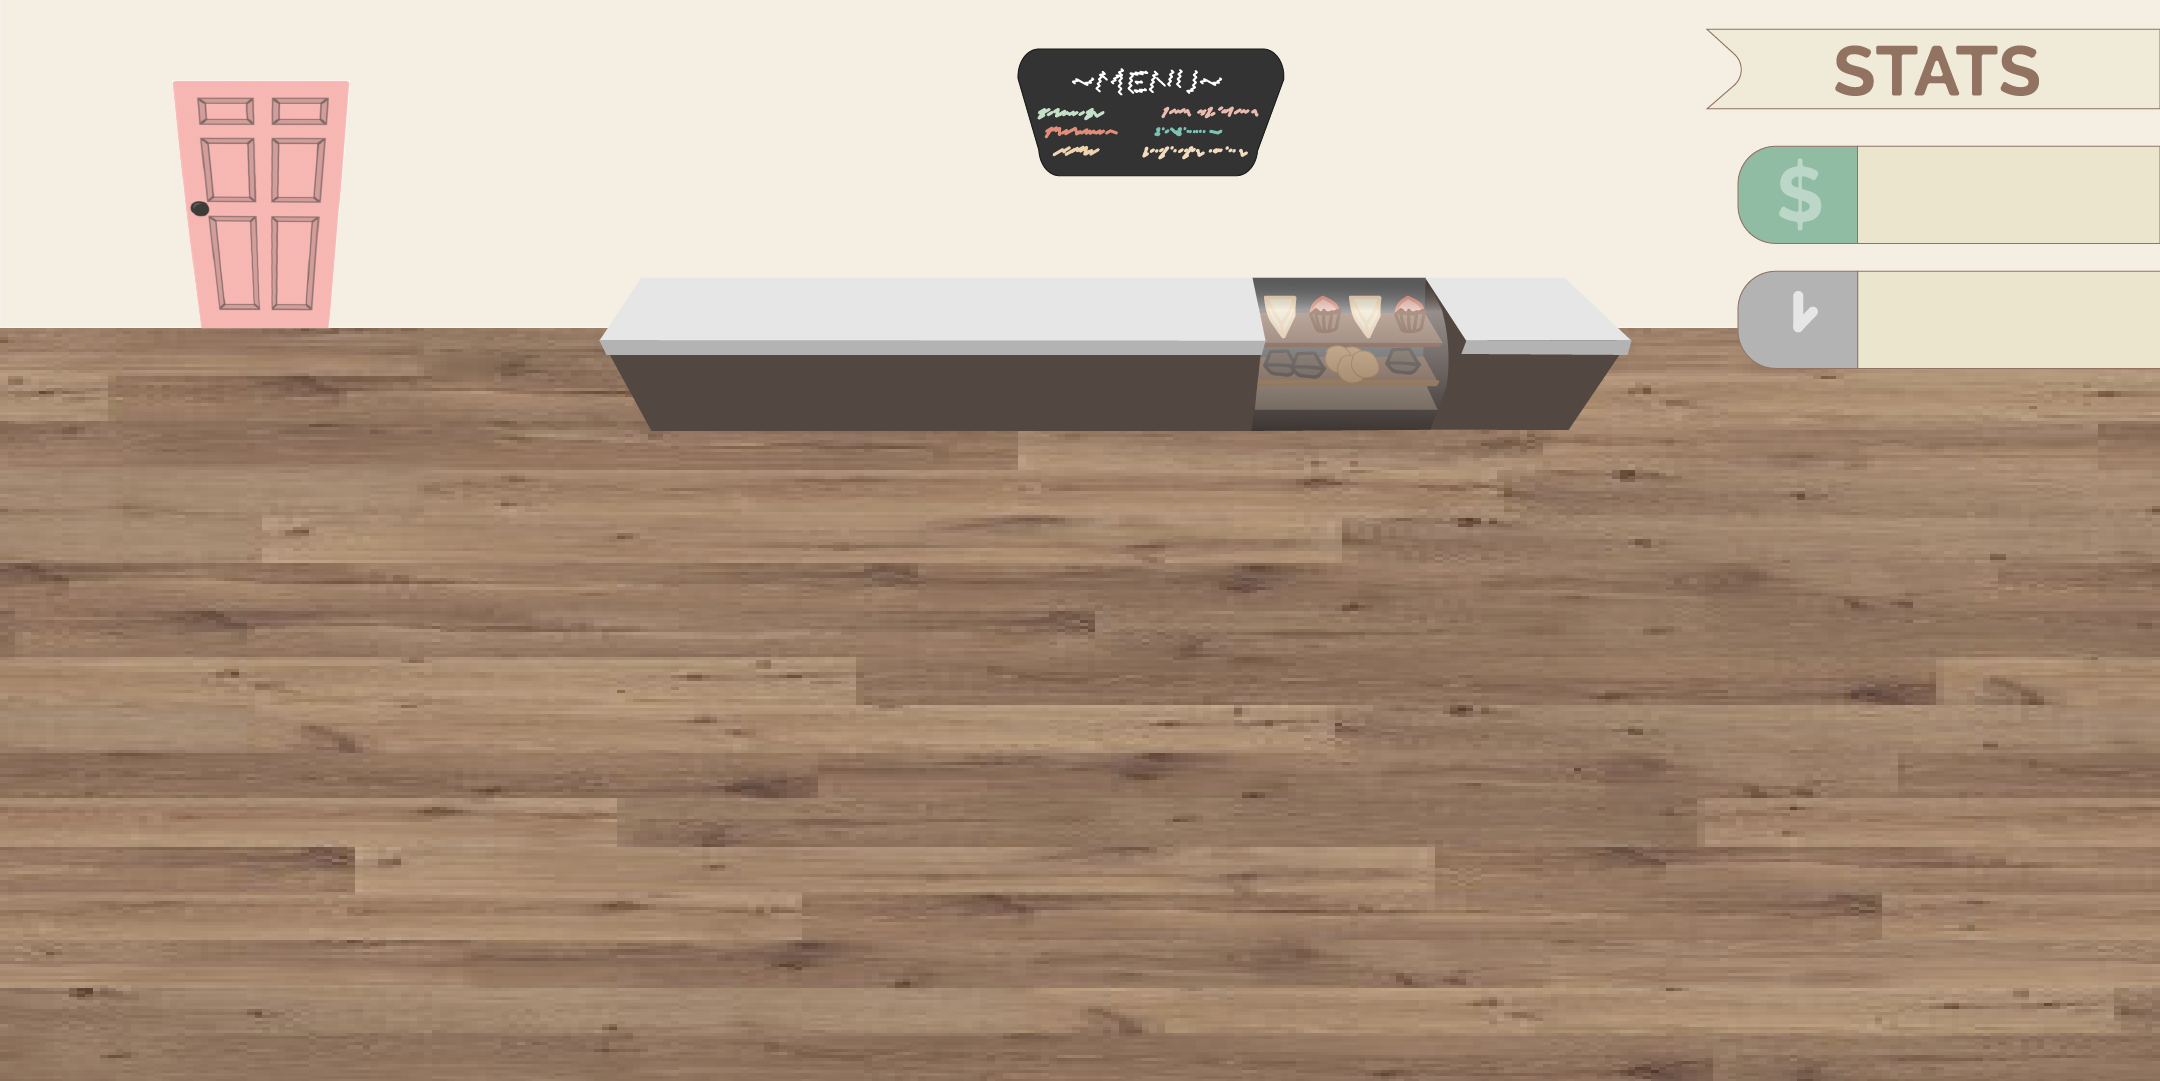
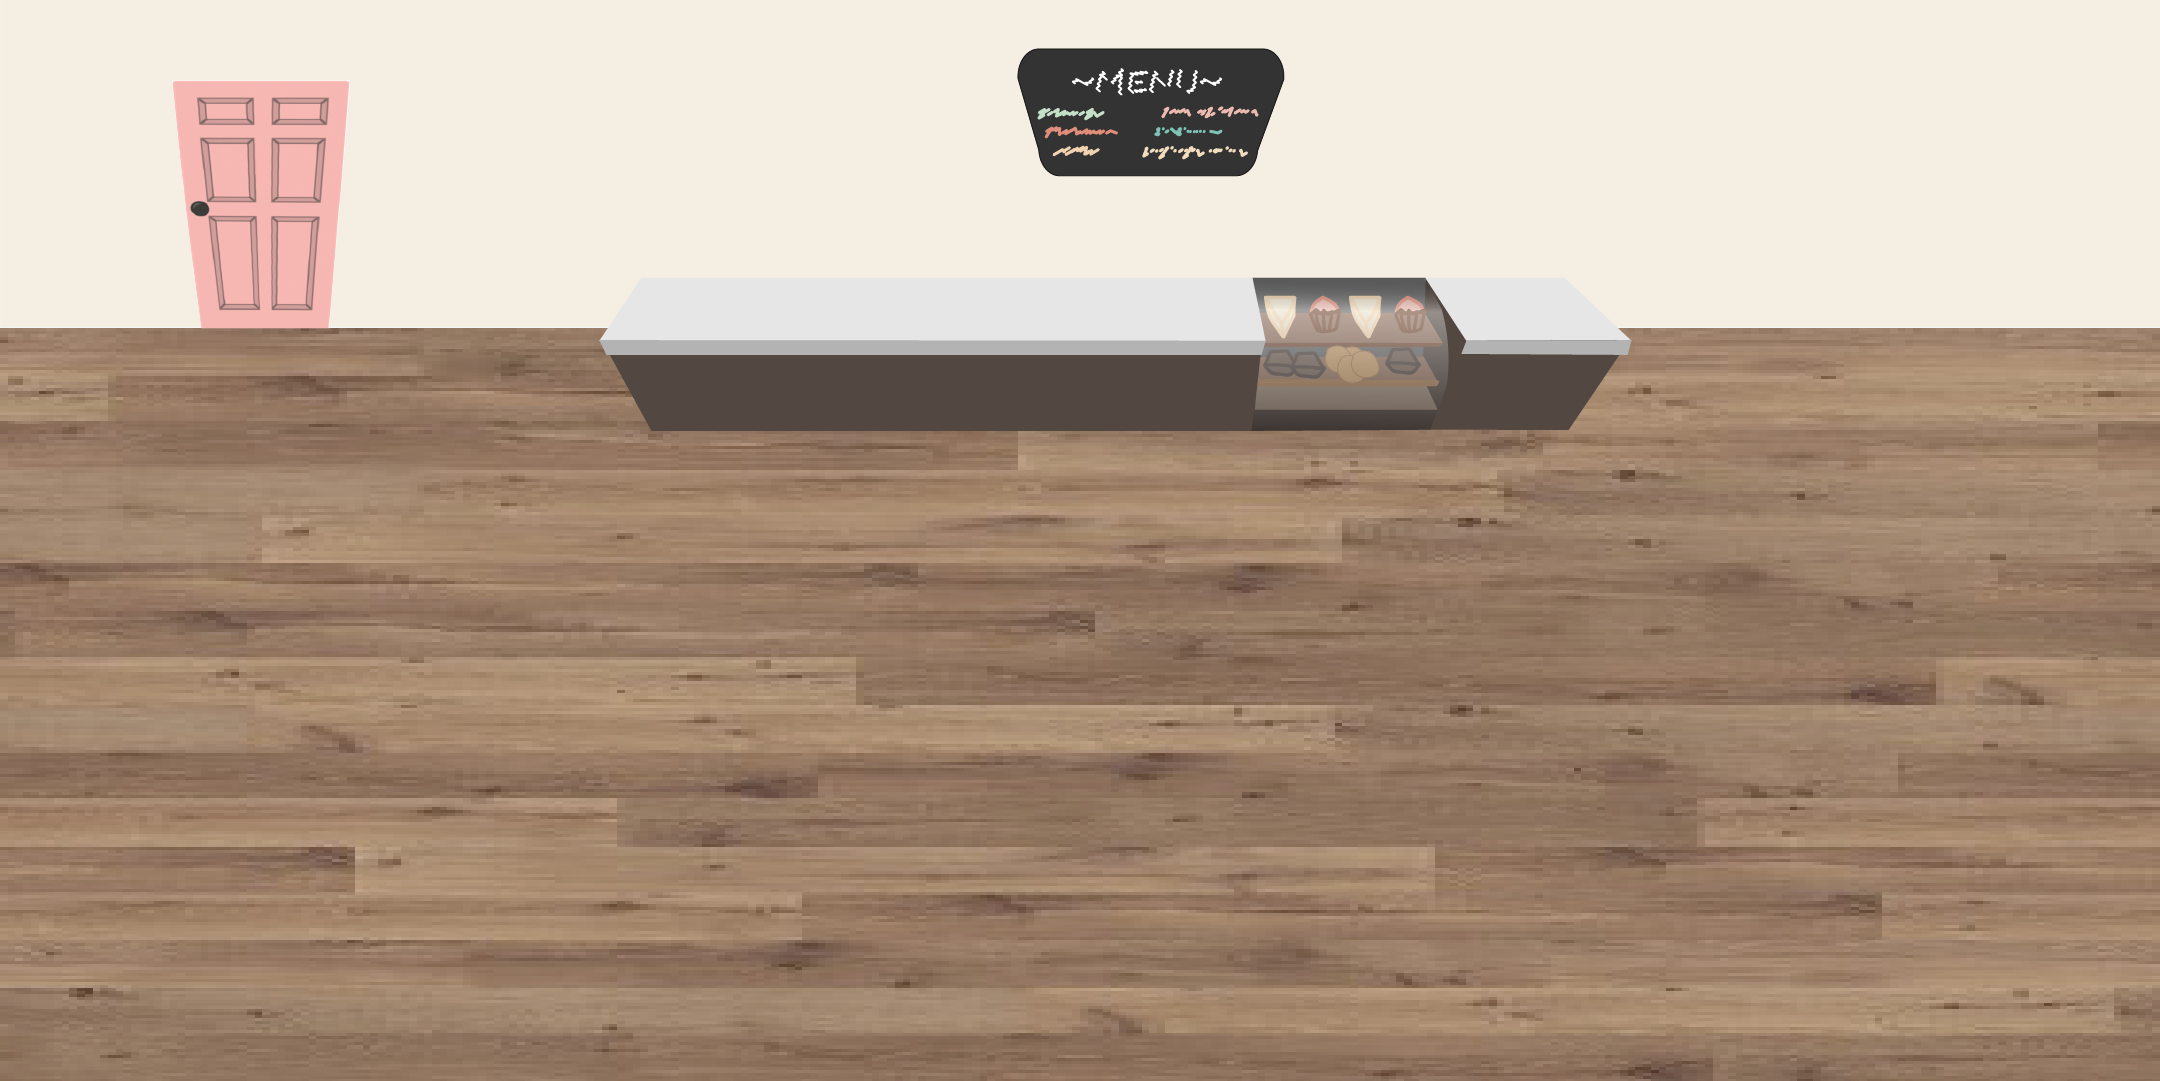
Server Update

Changed region(s): [[0.8065, 0.1221, 1.0, 0.3663], [0.8375, 0.0305, 0.9616, 0.0916]]

diff --git a/core/src/bobabox/main/Sprites/SprServer.java b/core/src/bobabox/main/Sprites/SprServer.java
@@ -12,18 +12,20 @@ import com.badlogic.gdx.graphics.g2d.SpriteBatch;
 
 import java.util.List;
 
+import bobabox.main.Objects.ObjBar;
+
 //https://github.com/TimCatana/gamegravity/blob/master/core/src/com/catani/gamegravity/SprChar.java
 
 public class SprServer extends Sprite {
 
     private float fX, fY, fW, fH;//Server X, Y, W, H
-    private int nDir = 4;
-    private Texture txtSheet, txtServer;
+    private int nDir = 4, nTimer = 0;
+    private Texture txtSheet, txtServer, txtDrink;
     private TextureRegion[] traniFrames;
-    private TextureRegion trTemp;
+    private TextureRegion[][] trTmpFrames;
     private Animation[] araniServer;
     private float fElapsedTime, fMove = 1.5f;
-
+    private boolean bHasDrink = false, HasOrder;
     // nDir: 0 = North, 1 = East, 2 = South, 3 = West, 4 = stop
 
     public SprServer(float _fX, float _fY) {
@@ -35,24 +37,24 @@ public class SprServer extends Sprite {
         fH = 100;
         setFlip(false, false);
 
+        txtDrink = new Texture("data/BubbleTea_img.png");
         araniServer = new Animation[4];
 
-        TextureRegion[][] trTmpFrames = TextureRegion.split(txtSheet, txtSheet.getWidth()/5, txtSheet.getHeight()/4);
+        trTmpFrames = TextureRegion.split(txtSheet, txtSheet.getWidth() / 5, txtSheet.getHeight() / 4);
 
-        for(int i = 0; i < 4; i++){
+        for (int i = 0; i < 4; i++) {
             traniFrames = new TextureRegion[5];
-            for(int j =0; j < 5; j++){
+            for (int j = 0; j < 5; j++) {
                 traniFrames[j] = trTmpFrames[i][j];
             }
-            araniServer[i] = new Animation(1f/6f, traniFrames);
+            araniServer[i] = new Animation(1f / 6f, traniFrames);
         }
-        System.out.println("nDir = " + nDir);
     }
 
 
     private void directions(SpriteBatch batch) {
-        if(nDir < 4){
-            batch.draw((TextureRegion)araniServer[nDir].getKeyFrame(fElapsedTime,true), fX, fY, fW-10, fH);
+        if (nDir < 4) {
+            batch.draw((TextureRegion) araniServer[nDir].getKeyFrame(fElapsedTime, true), fX, fY, fW - 10, fH);
         }
         if (nDir == 0) {
 //            System.out.println("NORTH");
@@ -85,6 +87,7 @@ public class SprServer extends Sprite {
 
     // Makes server move to table coordinates
     public void update(float fXG, float fYG, SpriteBatch batch) {
+//        System.out.println("ndir" + nDir);
         fElapsedTime += Gdx.graphics.getDeltaTime();//make sure to stop this timer when the game pauses
         directions(batch);
         //North
@@ -102,20 +105,31 @@ public class SprServer extends Sprite {
         } else {
             nDir = 4;
         }
-
-
-        //Makes server move right according to coordinate location
-//        System.out.println(fYG + " TABLE X");
-//        System.out.println(fX + " SERVER X");
-     //   System.out.println(fY + " SERVER Y");
-
     }
 
+    public void carryDrink(SpriteBatch batch, boolean hasOrder, ObjBar objBar) {
+        HasOrder = hasOrder;
+//        System.out.println("NDIRytrset7yfghcf" + " "+ nDir);
+//        System.out.println("FX " + fX + " FY "+ fY);
+        System.out.println("nTimer " + nTimer);
+        if (fX == objBar.rBar().x + 1 && fY == objBar.rBar().y - 20) {
+            if (HasOrder && nDir == 4) {
+                nTimer++;
+            }
+        }
+        if(bHasDrink){
+            HasOrder = false;
+            nTimer = 0;
+            batch.draw(txtDrink, fX, fY +10,  50, 50);
+        }
+        if (nTimer >= 60 && HasOrder) {
+            batch.draw(txtDrink, objBar.rBar().x + fW, objBar.rBar().y + 50 , 50, 50);
+            if (objBar.isTapped()) {
+                bHasDrink = true;
+            }
+        }
+    }
 }
-
-
-
-
 
 
 

diff --git a/core/src/bobabox/main/Screens/ScrGame.java b/core/src/bobabox/main/Screens/ScrGame.java
@@ -27,7 +27,7 @@ public class ScrGame implements Screen, InputProcessor {
     GamMenu gamMenu;
     //Values
     int nW, nH;
-    private boolean isTableClicked = false, isDown = false;
+    private boolean isTableClicked = false;
     private boolean isSitting = false;
     private Vector3 vTouch;
     private int nGameTimer = 60, nFPS;
@@ -37,7 +37,7 @@ public class ScrGame implements Screen, InputProcessor {
     private StretchViewport viewport;
     private SpriteBatch batch;
     //Assets
-    Texture txtBg;
+    Texture txtBg, txtStats;
     private SprGuest sprGuest;
     private SprServer sprServer;
     private ObjTables arTables[] = new ObjTables[3];
@@ -61,6 +61,7 @@ public class ScrGame implements Screen, InputProcessor {
         batch = new SpriteBatch();
         objBar = new ObjBar(viewport, new Rectangle(300, 300, 450, 80));
         txtBg = new Texture("data/GameBG_img.png");
+        txtStats = new Texture("data/STATS_img.png");
         btnPause = new ObjButton(940, 40, 90, 55, "data/PAUSE1_btn.png", "data/PAUSE2_btn.png", viewport);
         bfFont = new BitmapFont(Gdx.files.internal("data/font.fnt"));
         bfFont.setColor(Color.DARK_GRAY);
@@ -99,20 +100,24 @@ public class ScrGame implements Screen, InputProcessor {
         btnPause.update(batch);
         sprServer.update(fXG, fYG, batch);
         sprGuest.draw(batch);
-        bfFont.draw(batch, Integer.toString(nGameTimer), nW - 100, nH - 138);
 
         //Checks if bar is clicked
         if (objBar.isTapped()) {
             System.out.println("Bar is touched");
             fXG = objBar.rBar().x;
             fYG = objBar.rBar().y - 20;
+            System.out.println("FBX " + fXG + " FBY "+ fYG);
             sprServer.update(fXG, fYG, batch);
         }
+
         if (isTableClicked) {
             sprServer.update(fXG, fYG, batch);
         }
 
+        sprServer.carryDrink(batch, true, objBar);
         updateTable();
+        batch.draw(txtStats,nW - 200, nH - 165, 200, 150);
+        bfFont.draw(batch, Integer.toString(nGameTimer), nW - 100, nH - 135);
         batch.end();
 
         //ObjButton

diff --git a/core/src/bobabox/main/Objects/ObjBar.java b/core/src/bobabox/main/Objects/ObjBar.java
@@ -3,6 +3,7 @@ package bobabox.main.Objects;
 import com.badlogic.gdx.Gdx;
 import com.badlogic.gdx.graphics.Texture;
 import com.badlogic.gdx.graphics.g2d.Sprite;
+import com.badlogic.gdx.graphics.g2d.SpriteBatch;
 import com.badlogic.gdx.graphics.glutils.ShapeRenderer;
 import com.badlogic.gdx.math.Rectangle;
 import com.badlogic.gdx.math.Vector3;
@@ -12,12 +13,14 @@ public class ObjBar {
     private Rectangle rect;
     private Vector3 vTouch;
     private StretchViewport viewport;
+    private float fX, fY;
+    private Texture txtBubbleTea;
 
     public ObjBar(StretchViewport _viewport, Rectangle rect) {
         //Importing Info
         viewport = _viewport;
         this.rect = rect;
-
+        txtBubbleTea = new Texture("data/BubbleTea_img.png");
     }
 
     public boolean isTapped() {
@@ -28,6 +31,7 @@ public class ObjBar {
         }
         return false;
     }
+
 
     public Rectangle rBar() {
         return rect;
